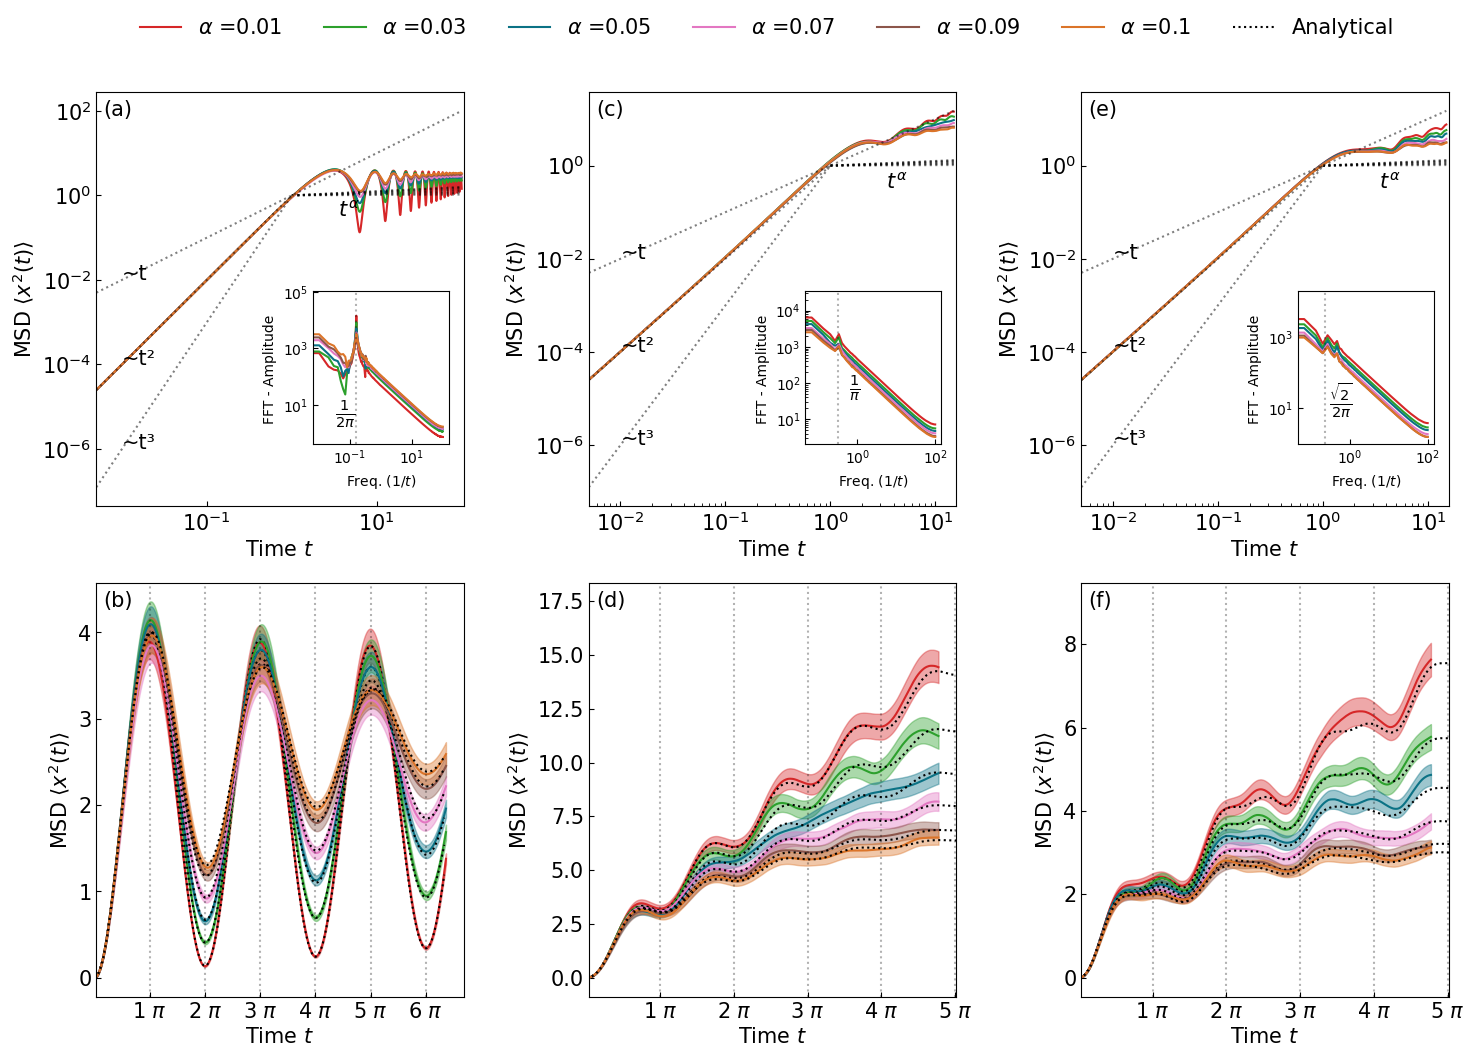
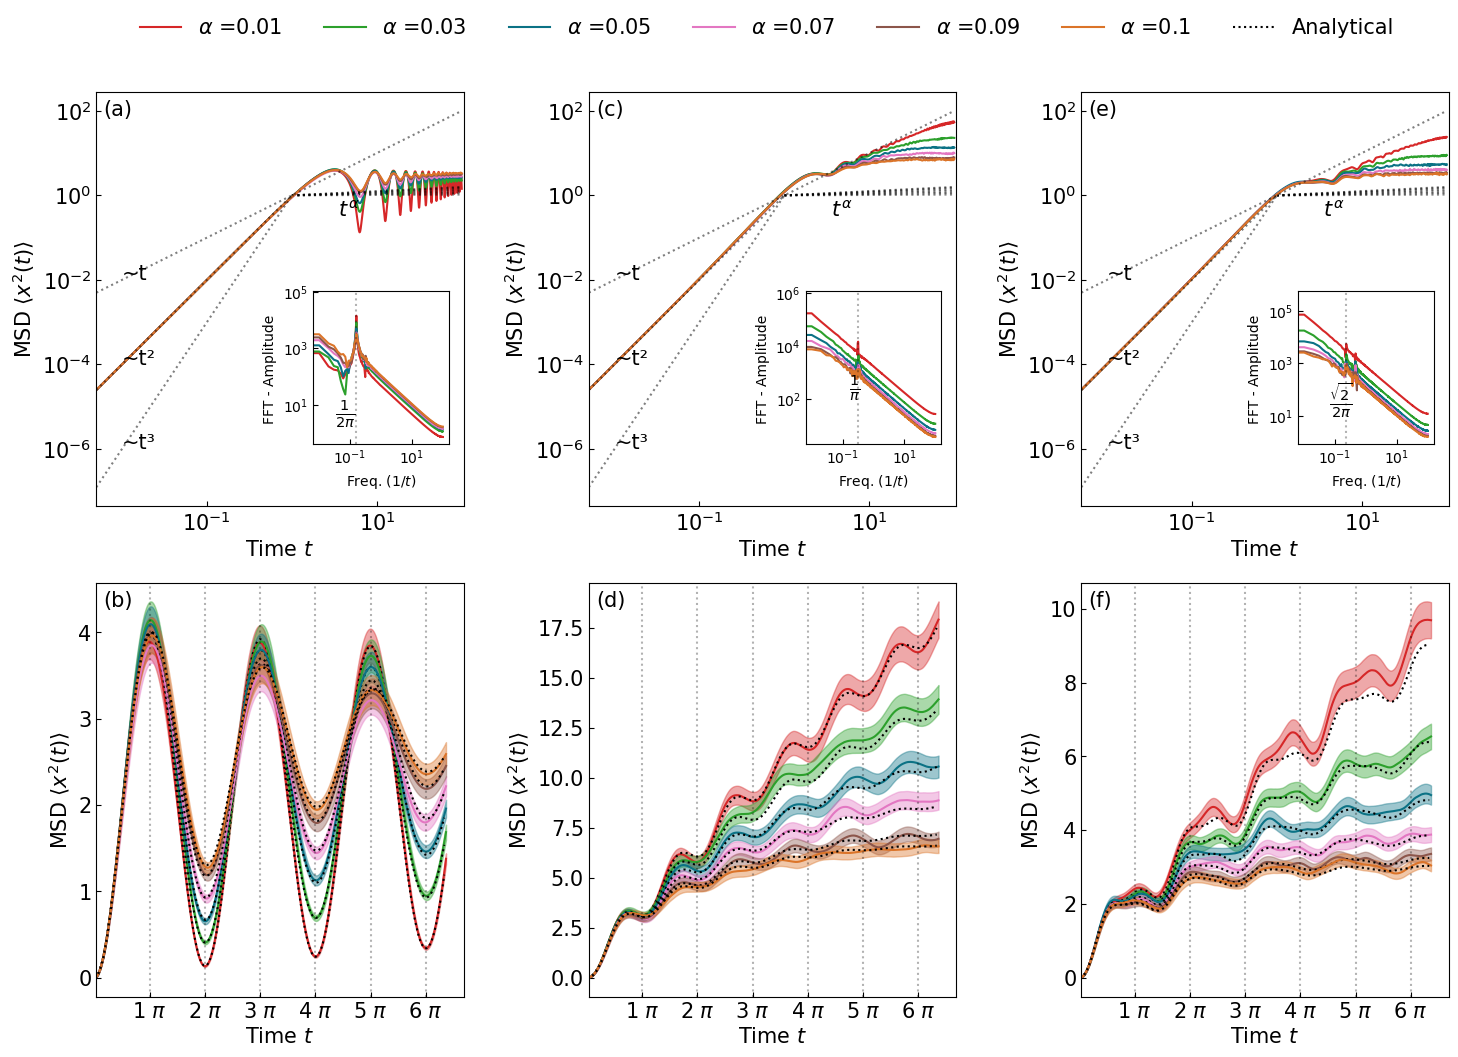
fix: T=100 for tg and mixed

diff --git a/scripts/fig2_layout2.py b/scripts/fig2_layout2.py
@@ -106,7 +106,7 @@ axins = ax[1][1]
 axins_ = axi.inset_axes([0.59, 0.15, 0.37, 0.37])
 #axins_ = axi.inset_axes([0.0, 1.17, 1.0, 0.4])
 
-T = 15
+T = 100
 h = 0.005
 v0 = 1.0
 M = 1.0
@@ -180,7 +180,7 @@ axins = ax[1][2]
 axins_ = axi.inset_axes([0.59, 0.15, 0.37, 0.37])
 #axins_ = axi.inset_axes([0.0, 1.17, 1.0, 0.4])
 
-T = 15
+T = 100
 h = 0.005
 v0 = 1.0
 M = 1.0
